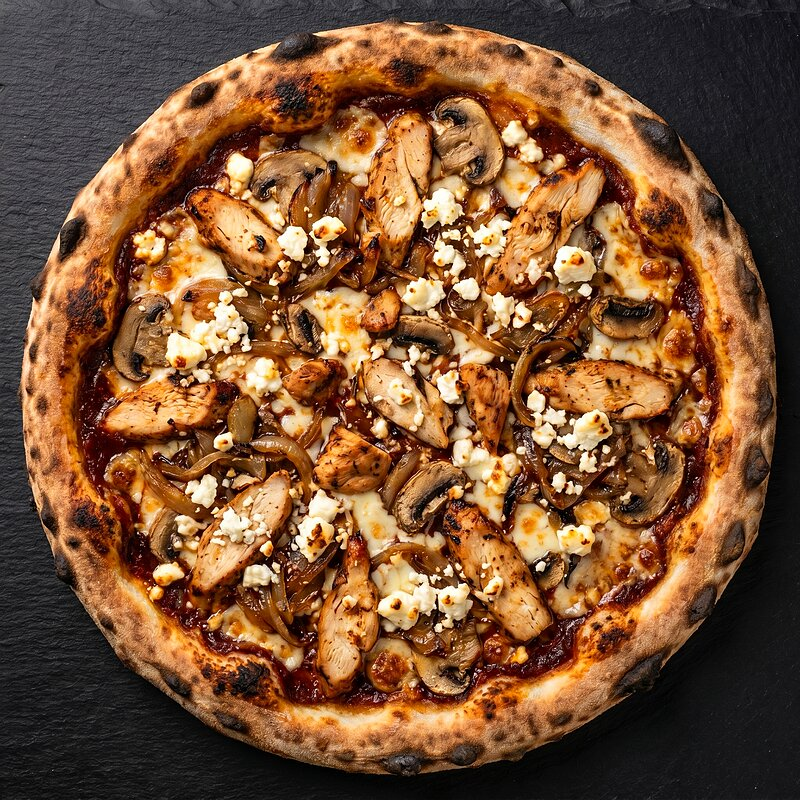
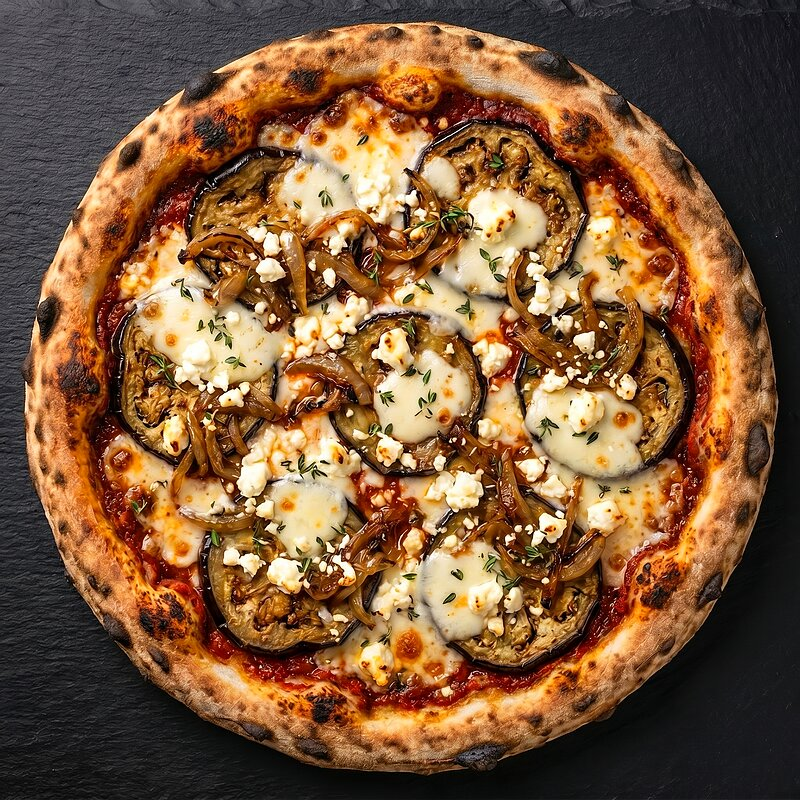
Replace BBQ chicken with eggplant pizza (image + copy)

diff --git a/index.html b/index.html
@@ -1027,10 +1027,10 @@ footer .footer-bottom {
 
       <div class="pizza-card">
         <div class="pizza-img-wrap">
-          <img src="images/topping-bbq-chicken.jpg" alt="BBQ chicken pizza" />
+          <img src="images/topping-bbq-chicken.jpg" alt="Eggplant pizza" />
         </div>
-        <div class="pizza-name">bbq chicken<span class="dot">.</span></div>
-        <div class="pizza-toppings">Chicken, caramelized onions, mushrooms, BBQ sauce, crumbled feta</div>
+        <div class="pizza-name">eggplant<span class="dot">.</span></div>
+        <div class="pizza-toppings">Roasted eggplant, caramelized onions, mozzarella, feta</div>
       </div>
 
       <div class="pizza-card">